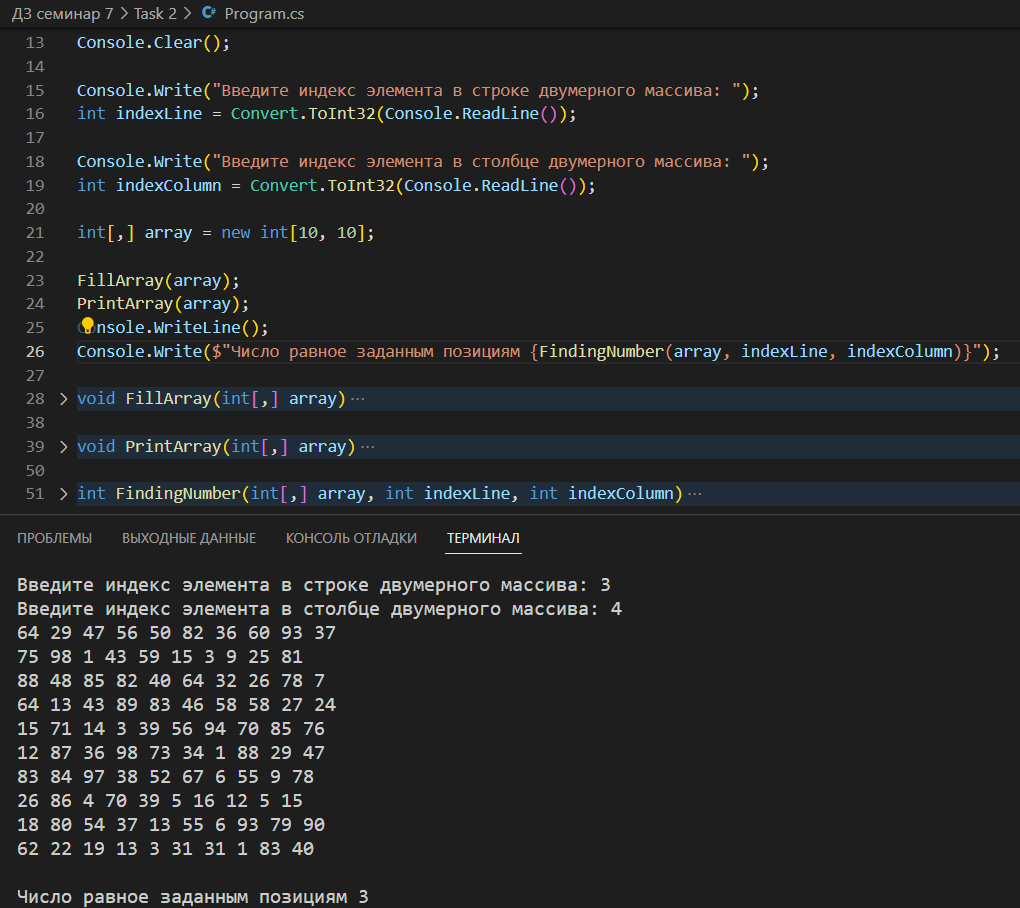
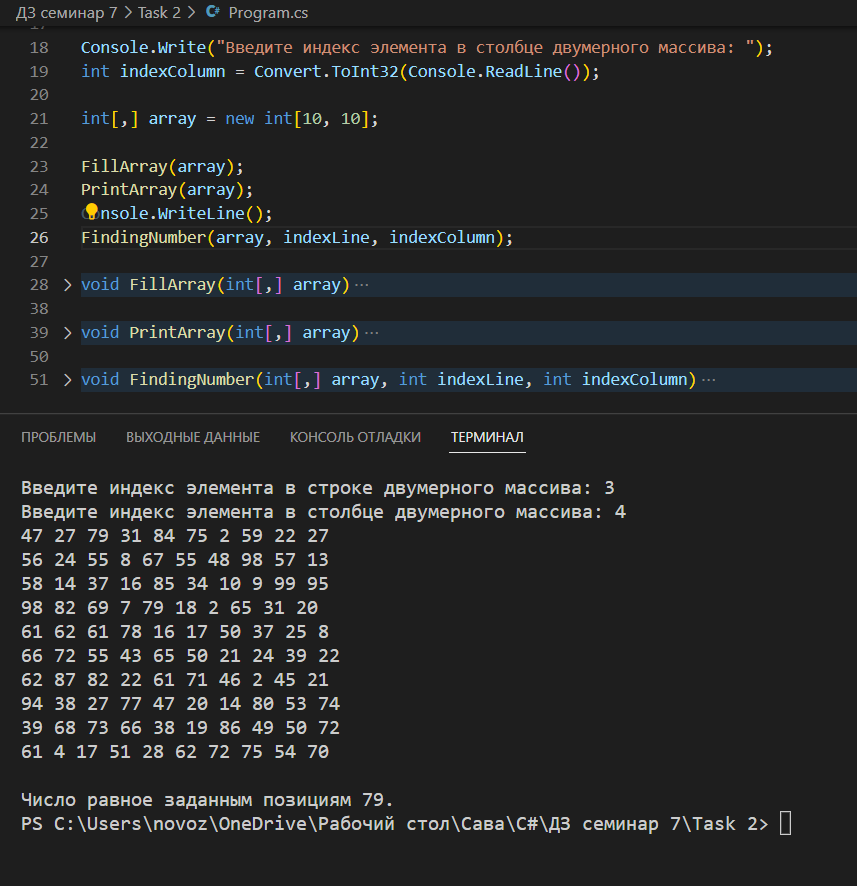
Программа исправлена согласно требованиям

diff --git a/Task 2/Program.cs b/Task 2/Program.cs
@@ -23,7 +23,7 @@ int[,] array = new int[10, 10];
 FillArray(array);
 PrintArray(array);
 Console.WriteLine();
-Console.Write($"Число равное заданным позициям {FindingNumber(array, indexLine, indexColumn)}");
+FindingNumber(array, indexLine, indexColumn);
 
 void FillArray(int[,] array)
 {
@@ -31,7 +31,7 @@ void FillArray(int[,] array)
     {
         for (int j = 0; j < 10; j++)
         {
-            array[i, j] = new Random().Next(0, 100);
+            array[i, j] = new Random().Next(1, 100);
         }
     }
 }
@@ -48,18 +48,25 @@ void PrintArray(int[,] array)
     }
 }
 
-int FindingNumber(int[,] array, int indexLine, int indexColumn)
+void FindingNumber(int[,] array, int indexLine, int indexColumn)
 {
     int res = 0;
-    for (int i = 0; i < array.GetLength(0); i++)
+    for (int j = 0; j < array.GetLength(1); j++)
     {
-        for (int j = 0; j < array.GetLength(1); j++)
+        for (int i = 0; i < array.GetLength(0); i++)
         {
-            if (indexLine == j && indexColumn == i)
+            if (indexLine == i && indexColumn == j)
             {
                 res = array[i, j];
             }
         }
     }
-    return res;
+    if (res != 0)
+    {
+        Console.Write($"Число равное заданным позициям {res}.");
+    }
+    else
+    {
+        Console.Write("Такого числа в массиве нет.");
+    }
 }
